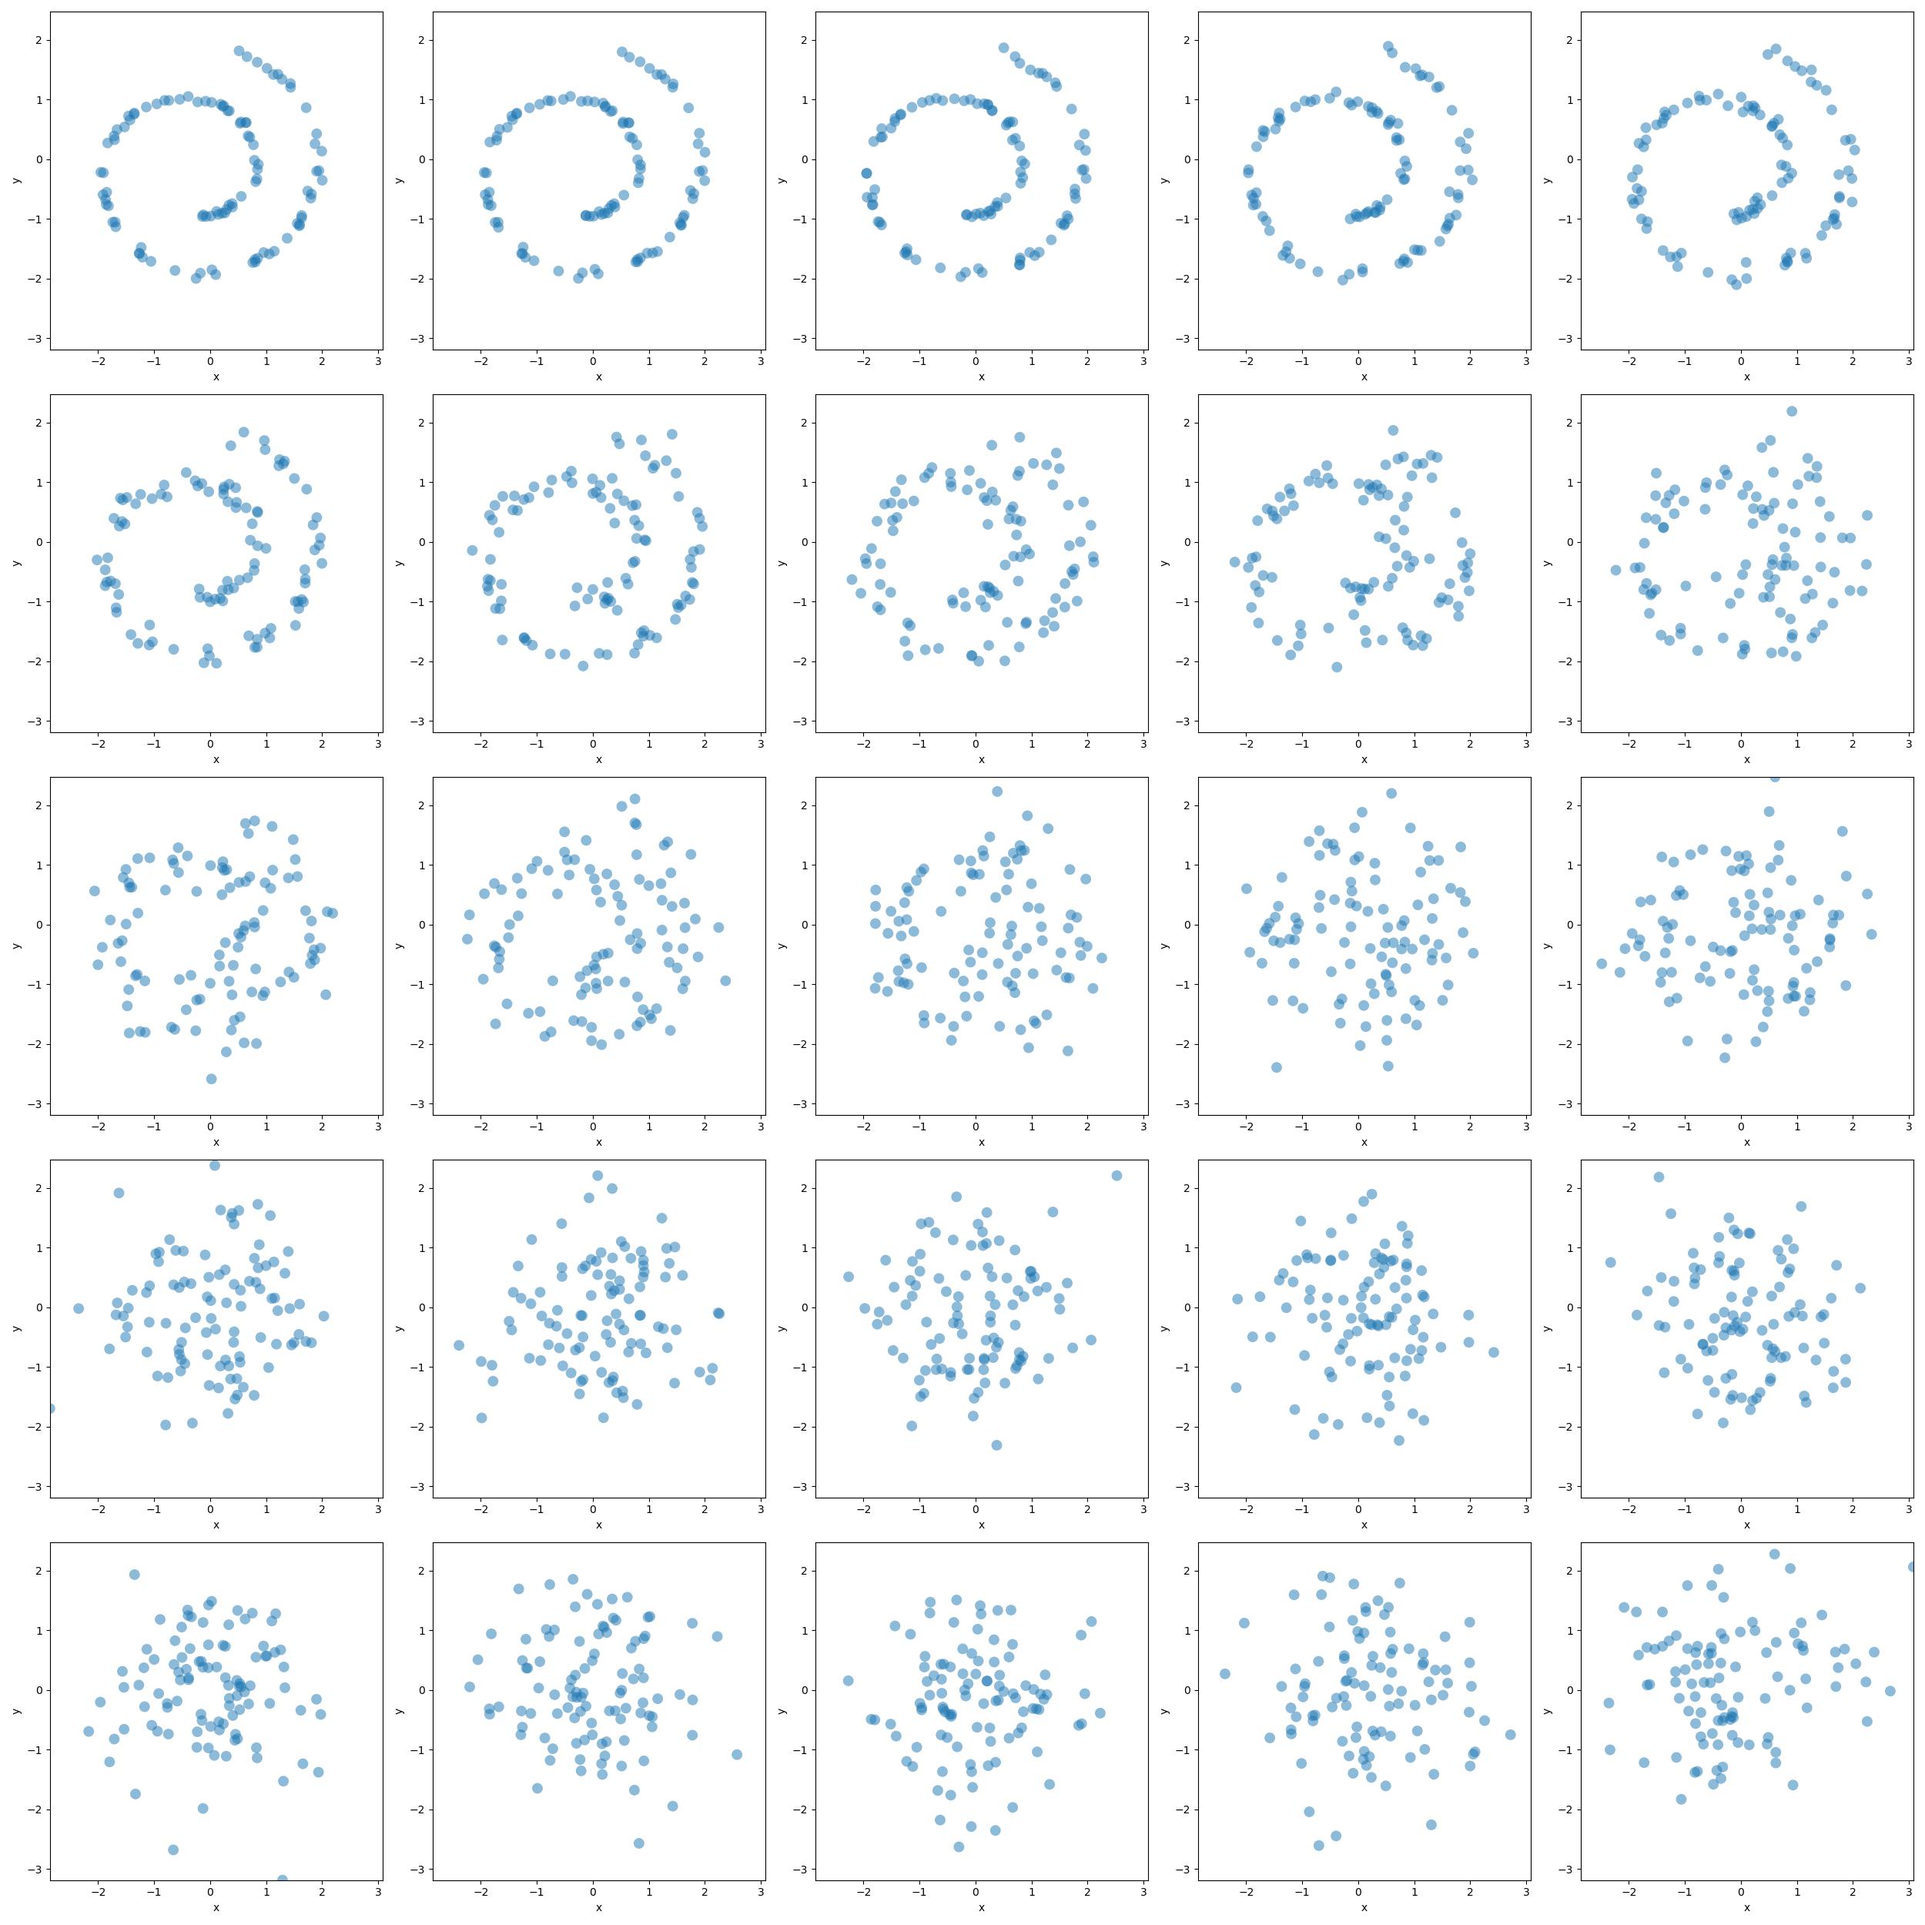
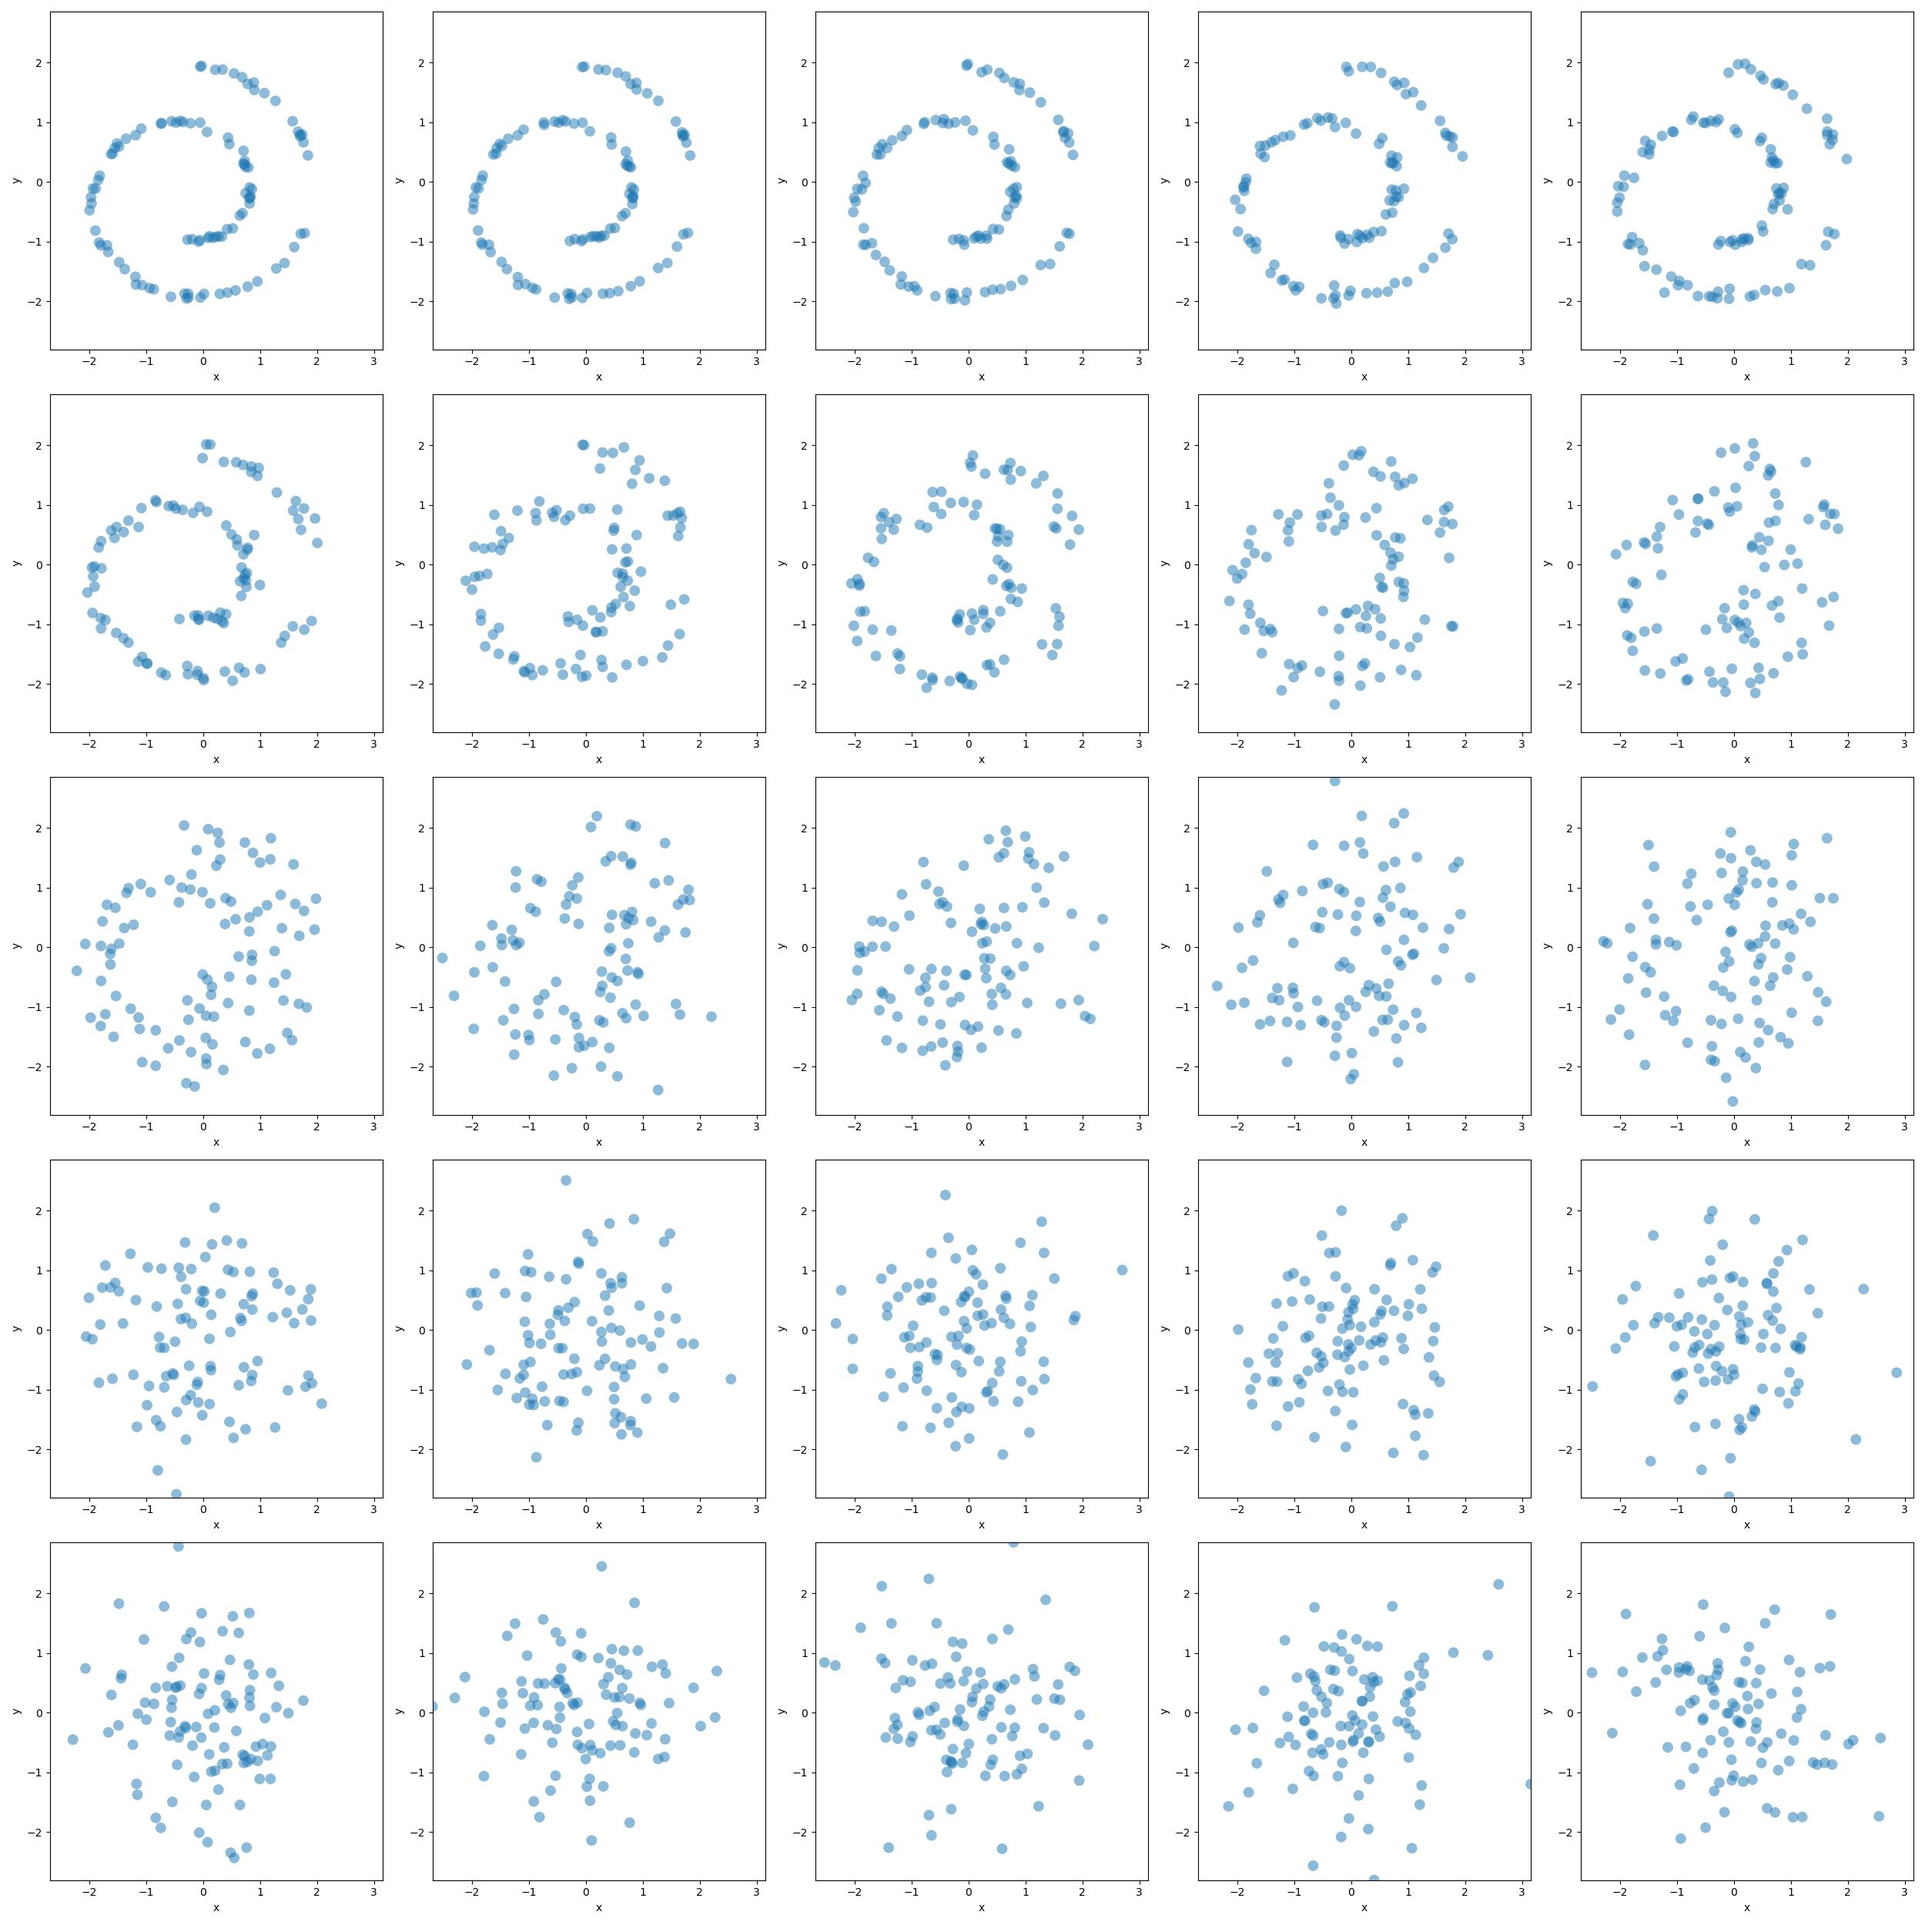
spiral works with stepbystep bridge

diff --git a/graphdiffusion/bridge.py b/graphdiffusion/bridge.py
@@ -25,7 +25,46 @@ class VectorBridgeColdDiffusion(nn.Module):
     
     def forward(self, pipeline, data_now, data_prediction, t_now, t_query, *args, **kwargs):
         x_0 = data_prediction
-        seed = int(random.random()*10000)
+        seed = torch.randint(0, 10000, (1,)).item()
         assert(t_now > t_query)
         x_tminus1 = data_now - pipeline.degradation(x_0, t_now, seed=seed) + pipeline.degradation(x_0, t_query, seed=seed)
+        return x_tminus1 
+
+
+
+class VectorBridgeStepByStep(nn.Module):
+    def __init__(self, node_feature_dim=1):
+        super(VectorBridgeStepByStep, self).__init__()
+        self.node_feature_dim = node_feature_dim
+    
+    def forward(self, pipeline, data_now, data_prediction, t_now, t_query, *args, **kwargs):
+        direction = data_prediction - data_now
+        direction = direction/torch.norm(direction)
+        seed = torch.randint(0, 10000, (1,)).item()
+        magnitude = torch.norm(pipeline.degradation(data_prediction, t_now, seed=seed) - pipeline.degradation(data_prediction, t_query, seed=seed))
+
+        x_tminus1 = data_now + direction * magnitude #(1.0-t_now)
+
+        if t_query > 1e-3:
+            x_tminus1 = x_tminus1 + torch.randn_like(x_tminus1) * magnitude/2.0
+
+        return x_tminus1 
+
+
+class VectorBridgeLinear(nn.Module):
+    def __init__(self, node_feature_dim=1):
+        super(VectorBridgeLinear, self).__init__()
+        self.node_feature_dim = node_feature_dim
+    
+    def forward(self, pipeline, data_now, data_prediction, t_now, t_query, *args, **kwargs):
+        direction = data_prediction - data_now
+        direction = direction/torch.norm(direction)
+        seed = torch.randint(0, 10000, (1,)).item()
+        #magnitude = torch.norm(pipeline.degradation(data_prediction, t_now, seed=seed) - pipeline.degradation(data_prediction, t_query, seed=seed))
+
+        x_tminus1 = data_now + direction * (1.0-t_now)
+
+        if t_query > 1e-3:
+            x_tminus1 = x_tminus1 + torch.randn_like(x_tminus1) * t_query/2.0
+
         return x_tminus1 

diff --git a/graphdiffusion/pipeline.py b/graphdiffusion/pipeline.py
@@ -35,7 +35,7 @@ class VectorPipeline:
         self.inference_obj = inference_obj or VectorInference(node_feature_dim = node_feature_dim)
         self.degradation_obj = degradation_obj or VectorDegradation(node_feature_dim = node_feature_dim)
         self.train_obj = train_obj or VectorTrain(node_feature_dim = node_feature_dim)
-        self.bridge_obj = bridge_obj or VectorBridgeColdDiffusion(node_feature_dim = node_feature_dim)
+        self.bridge_obj = bridge_obj or VectorBridgeStepByStep(node_feature_dim = node_feature_dim)
         self.distance_obj = distance_obj or VectorDistance(node_feature_dim = node_feature_dim)
 
         if not callable(self.reconstruction_obj):
